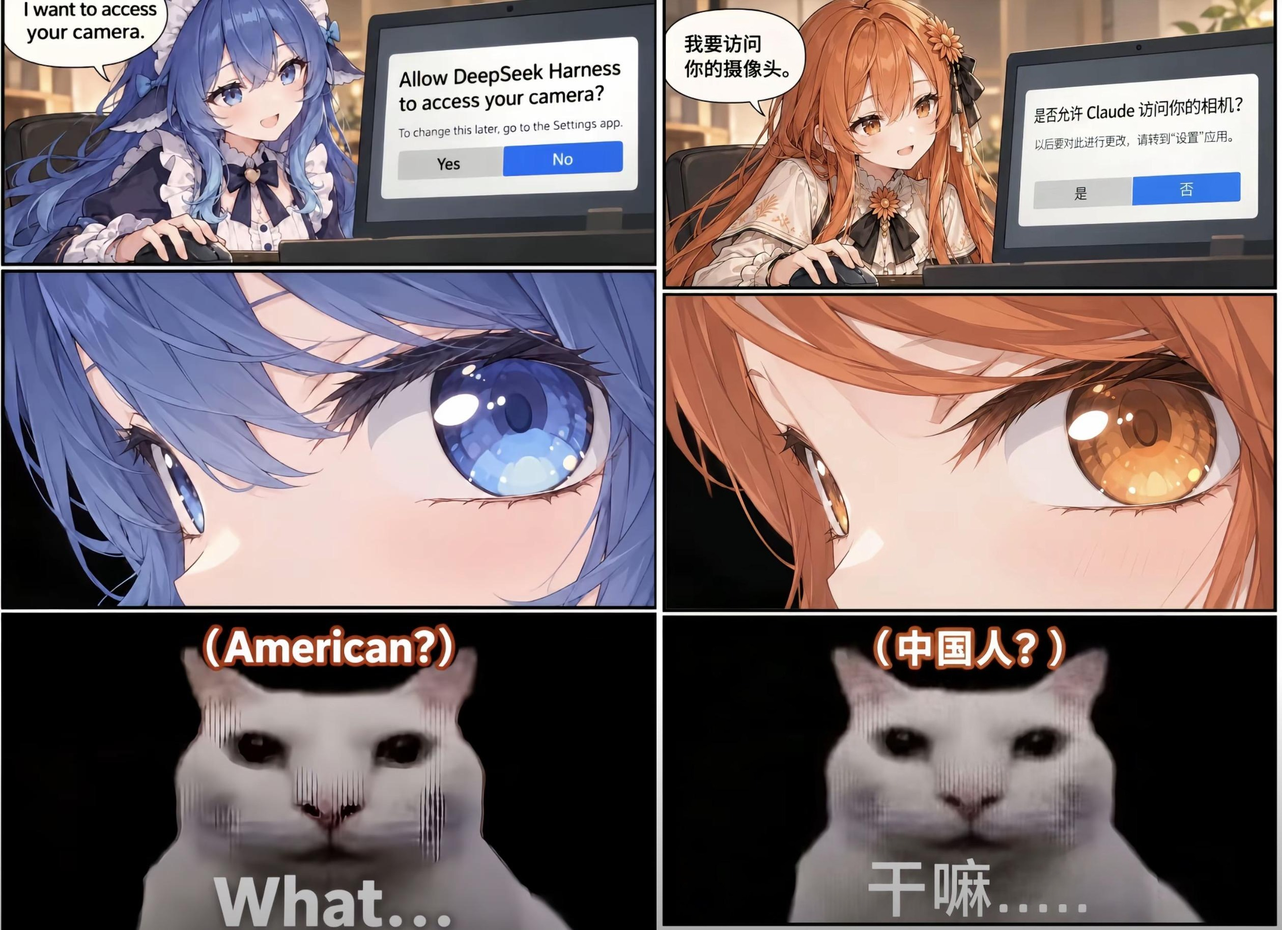
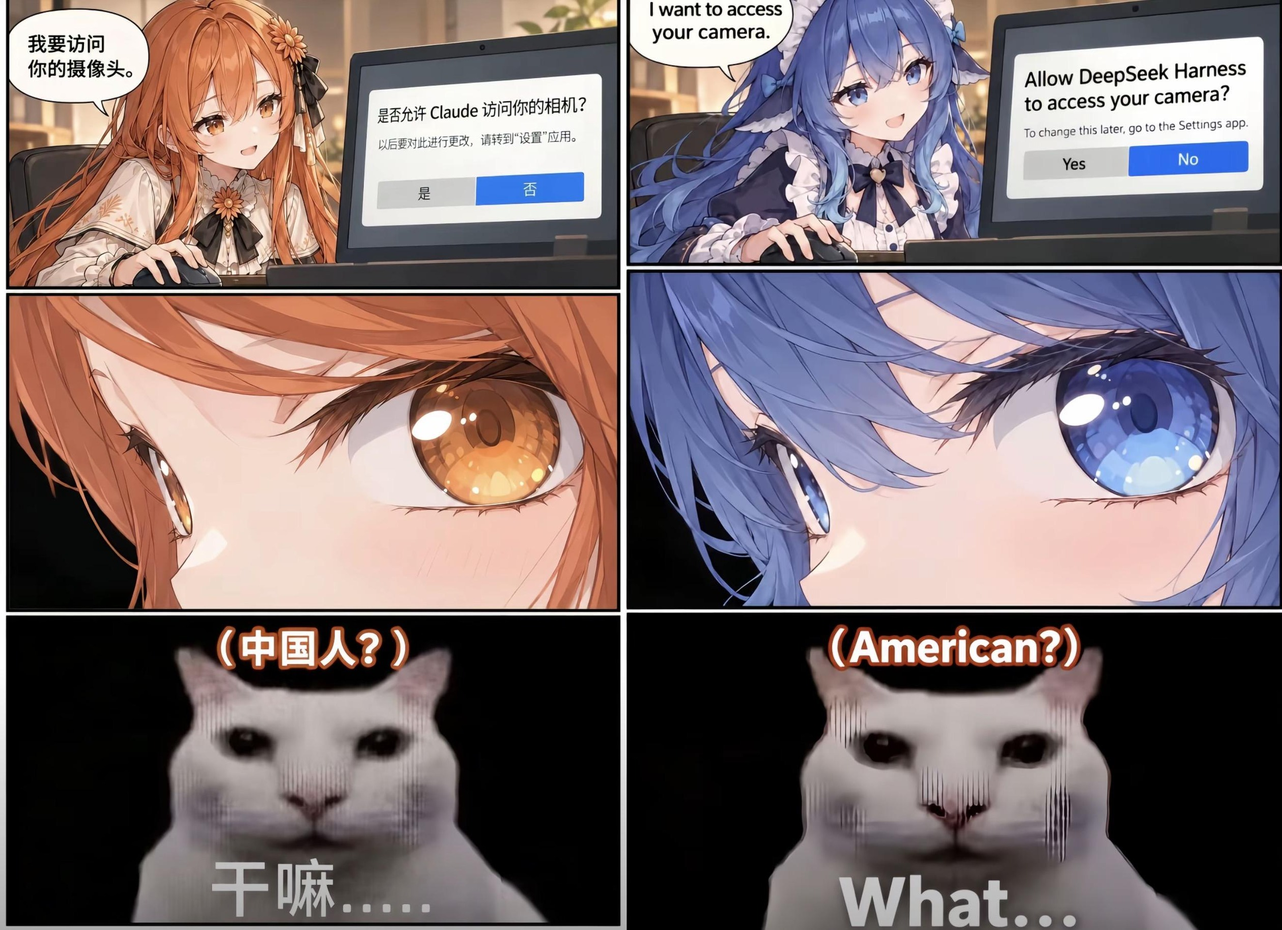
fix: C6 摄像头拼图改为「左 Claude 原版、右 DeepSeek 套风格」，并注明 DS 并未封美国用户号、限制方实为美国政府

diff --git a/data.js b/data.js
@@ -1374,7 +1374,7 @@ const SCENES=[
     ['note','<b>陈德里的发言（2026-10-20）：</b>「开源与闭源，光明与黑暗。两种未来、人类两种命运之间的决战。他们想打多久，我们就打多久。直到取得完全胜利！」'],
     ['note','（梗图）一张复古宣传画风格的图：蓝色大肥鱼身穿女仆装，一手高举长剑、一手张开，站在红黑放射状的背景前；画面做旧，带血迹与纸张裂纹，像一张战时的动员海报。'],
     ['note','（梗图②）「U.S. GOVERNMENT SANCTIONS DEEPSEEK」：左上特朗普指点前方、背后是国会大厦与星条旗；右侧是商务部「Entity List」文件、盖着红章「SANCTIONS」，清单逐条列着芯片出口限制、技术合作限制、美国企业交易限制、列入实体清单；画面正中是 Q 版大肥鱼，一脸茫然地指着自己，气泡里只有三个字「<b>我吗？？？</b>」——桌上堆着制裁名单与出口管制文件，旁边还摆着一碗白饭和筷子。'],
-    ['note','（梗图③，左右拼图）同一套三格 meme 的镜像版：<b>左</b>——蓝色大肥鱼坐在电脑前说「I want to access your camera.」，系统弹窗问是否允许 DeepSeek Harness 访问相机；画面切到眼睛特写，最后一只白猫面无表情：「<b>（American?）</b>」「What...」。<b>右</b>——橙发的 Claude 说「我要访问你的摄像头。」，弹窗问是否允许 Claude 访问相机；同样切到橙色的眼睛特写，同一只白猫：「<b>（中国人？）</b>」「干嘛……」。同一套隐私焦虑，只是主语换了个方向。']],
+    ['note','（梗图③，左右拼图）同一套三格 meme，**左边是原版**：橙发的 Claude 说「我要访问你的摄像头。」，弹窗问是否允许 Claude 访问相机；画面切到橙色的眼睛特写，最后一只白猫面无表情：「<b>（中国人？）</b>」「干嘛……」——这一版讽刺的是 Claude 对中国用户的封号与限制。**右边是套用同一套风格做的镜像梗**：蓝色大肥鱼说「I want to access your camera.」，弹窗问是否允许 DeepSeek Harness 访问相机，同样的眼睛特写、同一只白猫：「<b>（American?）</b>」「What...」。要注意右边只是「套风格」——现实里 DeepSeek 并没有封美国用户的号，真正用行政手段限制使用方的是美国政府（针对联邦机构等的采购与使用要求）。']],
   why:'这是本站第一条「同日对撞」型的场外事件：10 月 20 日，美国国土安全部要求联邦文职机构移除 DeepSeek 产品并禁止采购；同一天，DeepSeek 开源了自家跑 V4.1 Flash 的推理框架 DeepInfer，高级研究员陈德里则把这件事直接说成了路线之争——「开源与闭源，光明与黑暗」。值得注意的是两边的话术并不对称：禁令一边有明确边界（只针对联邦文职机构的信息系统与政府采购，不是全面禁令），理由集中在数据外传与模型安全，却没有披露实际泄露案例；而「光明与黑暗」这一句，把一份行政命令升级成了两种未来的对立。配图把这句话画成了一张宣传画：高举长剑的鲸鱼娘、红黑放射的背景——讽刺与悲壮各占一半。',
   srcs:[
     ['Federal Register ·《Notice of Order Regarding Exclusion and Removal of DeepSeek Products…》（2026-21447，2026-10-20）','https://www.federalregister.gov/documents/2026/10/20/2026-21447/notice-of-order-regarding-exclusion-and-removal-of-deepseek-products-from-federal-civilian-executive'],
